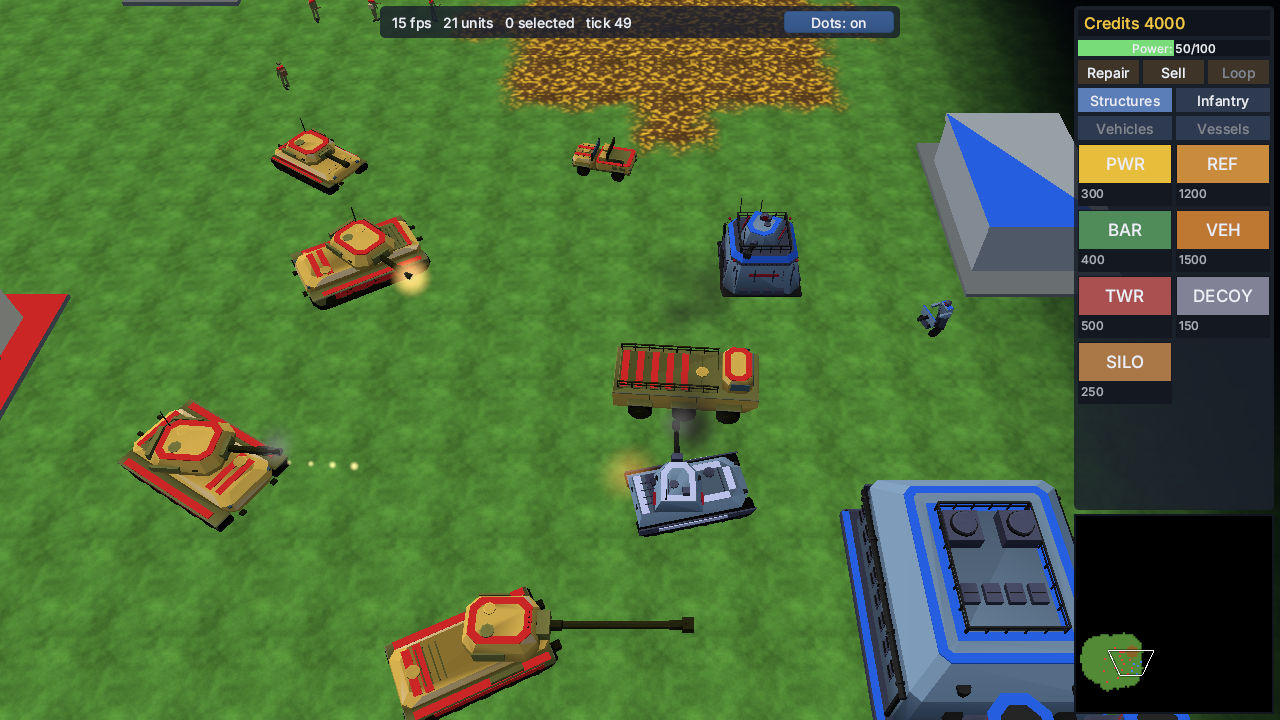
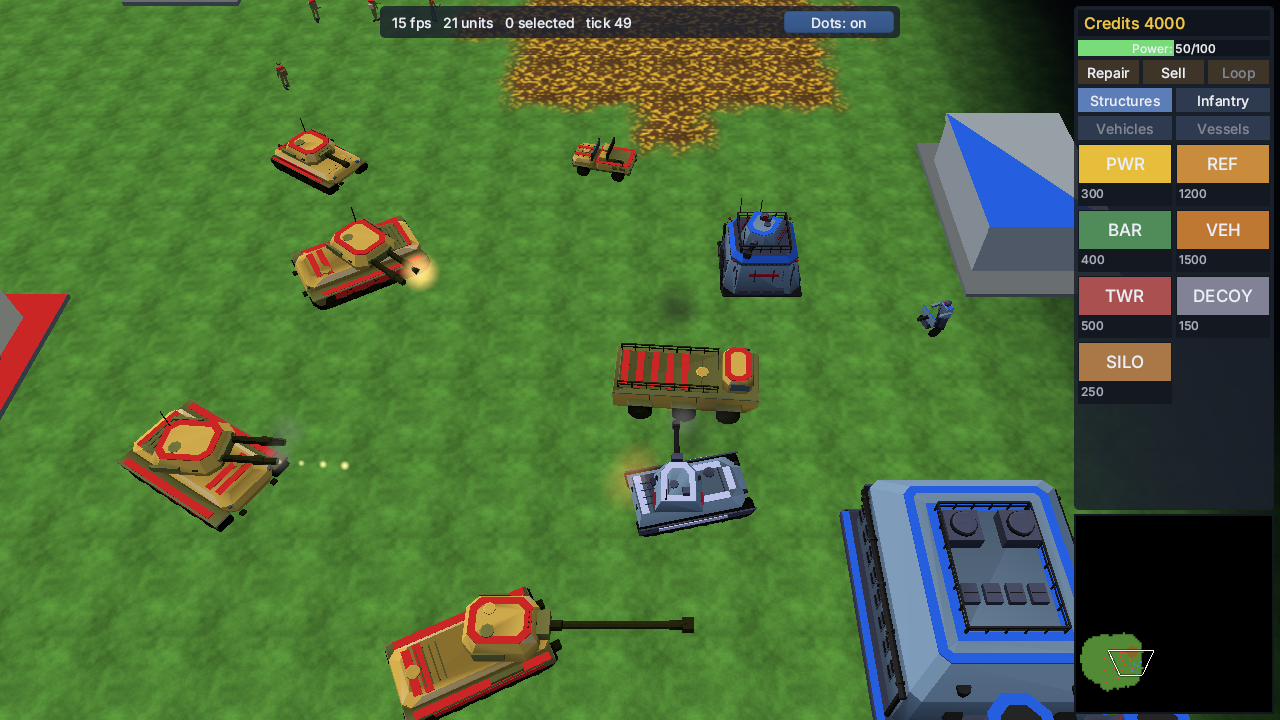
WP11.6b: progress notes, in-game shots after the twin cannon

diff --git a/docs/progress.md b/docs/progress.md
@@ -3491,6 +3491,35 @@ measurement (peak, length, silence, the mix below), not by ear. **Tijmen: please
 * **Tuning round (14-11-2026, orchestrator review: "tidy low-poly, not G").** Team colour is bands and trim (roof-edge bands with `kit::frame` and a flush fill, deck and fender stripes, stack flanges, tank shoulders, a pad marking): 20.7-23.9 % in every level, test cap 30 %. Shading: AO gain 2, grime 40 % up to 1.3 m, a 16 % top-edge highlight on upward bevels and edge wear on narrow open bevels; `COLOR_0` is now RGB over a grey material factor (`shade::factor`) so a plain face is still the palette colour. Buildings 3194/2584/3478 triangles in LOD0 (vents, pipes, railings, roof units, windows, door frames, bolted panels, ladders, walkways), vehicles 1264-1474 (capped wheels with hubs, track shoes, hatches, smoke dischargers, tools). New `tools/sf_model_gen/tests/shade.rs`, `buildings_use_their_detail_budget`; pins re-pinned; `contact_sheet_before_after.png` added, the contact sheet and M1 shots re-rendered (the Veyran tower and a tank now stand in view).
 * **Refinement round 2 (14-11-2026, Tijmen: "11.6 is goed, ga door, wel nog verfijnen").** Team colour as narrow stripes (at most 350 mm, `every_team_band_is_narrow`): two concentric roof bands on the buildings (`team_rings`/`insets`), platform-edge stripes, crane-arm stripes, a ring on the tank tops, four narrow drum bands, two cross bands on the Veyran tank deck; 20.7-26.2 % in every level. Veyran `paint`/`paint2` about 25 % lighter and cooler (`#7894b2` / `#4a4e68`). No edge wear on lathed triangles (`Tri::lathed`, `a_lathed_dome_gets_no_edge_wear`): the dome streaks are gone. Pins re-pinned; contact sheet, M1 shots re-rendered, `contact_sheet_round2.png` added.
 
+### WP11.6b notes: all units in style G (14-11-2026)
+
+* **Built.** Fourteen models in `assets/set_v5`, from `tools/sf_model_gen` (new files `units.rs`, `units_artillery.rs`, `units_wheeled.rs`, `units_transport.rs`, `units_vessels.rs`): heavy tank and siege artillery and repair truck of both factions, the Veyran harvester, transport truck, gunboat and heavy gun team, the Meridian light transport and amphibious transport, the neutral supply truck and ferry. A role of both factions is one builder with a `Style` (`Round` / `Angular`). Every vehicle and vessel role now has a generated model; the shared kit gained only `Palette::materials("neutral")` (third slot `paint3`, a `neutral` entry in `model_palette.ron`) and a few `pub(crate)` on helpers of `models.rs`.
+* **Heavy tank = twin cannon.** The weapon is `twin_cannon` (burst 2) and `effects_screenshot` follows the n-th shot to the n-th muzzle anchor, so the heavy tank has two barrels 912 mm apart and `muzzle_l`/`muzzle_r` under one `barrel` (like the set v4 file). The first build had one muzzle: `a_flash_starts_at_the_barrel_tip_and_a_twin_cannon_alternates_its_muzzles` caught it.
+* **Wiring (model paths only, no stat).** `unit_defs.ron`: every vehicle and vessel role, the supply truck, the ferry and the heavy gun team point at `set_v5`; pack `set_v5` in `models.ron` lists all 20 files. **Infantry is set v3 again** (Tijmen's figures, 1,000-1,200 triangles in LOD0, against 100-160 of set v4): rifleman, rocket_trooper, engineer, scout (per faction), sniper, medic, combat_engineer, civilian, technician; demolition_team was already there and stays (a two-figure file that passes the checker's structure rules; not regenerated). Known and kept: the v3 sniper has 19.0 % team colour in LOD0 where the checker asks 20 % (`sf_asset_check assets/set_v3`: FAIL `team-share`); the set v3 test only pins that it loads and fits the budget. Tests that named set v4 files for these roles follow (`sf_data` units, `roster.rs`, `faction_models_screenshot`).
+* **Vehicles keep no fx anchors** (decision recorded in `docs/art-style.md` section 7): a hurt vehicle smokes by the engine's rule.
+* **New rules in `docs/art-style.md` section 9:** vessels have a keel under the waterline (`Y = 0` inside the hull, the checker's rule), neutral models have no `team` material (`paint3`), the vehicle detail budget is 1,200-1,500 triangles in LOD0 and a figure 400-1,500, the far levels keep the height/length that sets the silhouette.
+* **Measured** (`sf_model_gen --table` and `sf_asset_check assets/set_v5 --deny-warnings`: 20 files, 20 pass, no warning). Triangles LOD0/1/2 and team share of the top-down view LOD0/1/2:
+  | Model | Triangles LOD0 / 1 / 2 | Team % LOD0 / 1 / 2 | Size x, z (m) |
+  |---|---|---|---|
+  | `meridian_amphibious_transport.glb` | 1496 / 390 / 94 | 22.3 / 22.9 / 22.5 | 6.32 x 3.26 |
+  | `meridian_heavy_tank.glb` | 1424 / 476 / 132 | 25.9 / 26.5 / 26.0 | 6.50 x 3.80 |
+  | `meridian_light_transport.glb` | 1282 / 340 / 84 | 26.2 / 27.6 / 28.3 | 3.40 x 2.11 |
+  | `meridian_repair_truck.glb` | 1408 / 414 / 116 | 24.7 / 25.5 / 24.5 | 4.80 x 2.48 |
+  | `meridian_siege_artillery.glb` | 1416 / 456 / 110 | 27.9 / 28.1 / 25.4 | 8.45 x 3.08 |
+  | `neutral_ferry.glb` | 1250 / 206 / 110 | none (neutral) | 21.12 x 8.90 |
+  | `neutral_supply_truck.glb` | 1482 / 496 / 126 | none (neutral) | 5.64 x 2.48 |
+  | `veyran_gunboat.glb` | 1480 / 492 / 148 | 21.7 / 22.6 / 20.7 | 18.00 x 4.90 |
+  | `veyran_harvester.glb` | 1258 / 444 / 148 | 24.0 / 24.6 / 21.3 | 6.35 x 3.44 |
+  | `veyran_heavy_gun_team.glb` | 564 / 216 / 54 | 24.0 / 28.5 / 24.9 | 1.60 x 1.09 |
+  | `veyran_heavy_tank.glb` | 1438 / 454 / 150 | 25.0 / 25.5 / 24.7 | 6.65 x 3.80 |
+  | `veyran_repair_truck.glb` | 1388 / 394 / 132 | 25.4 / 25.5 / 24.3 | 4.80 x 2.48 |
+  | `veyran_siege_artillery.glb` | 1406 / 422 / 140 | 26.9 / 26.8 / 23.8 | 8.45 x 3.08 |
+  | `veyran_transport_truck.glb` | 1396 / 370 / 102 | 27.9 / 29.5 / 27.5 | 5.64 x 2.48 |
+  Sizes stay inside the set v4 file they replace (`FOOTPRINTS` in `tools/sf_model_gen/tests/models.rs`); `veyran_heavy_gun_team` has no v4 file (bound 1.70 x 1.20 m, measured 1.60 x 1.09).
+* **Pictures** in `docs/screenshots/wp11.6b/`: `contact_sheet_1..4.png` (every model of set v5, blue and red player, 45 and 80 degrees down, labelled) and two shots of the real game, `m1_units_zoom_0.12_tick23.png` and `m1_units_zoom_0.25_tick49.png` (`sf_game --match <M1 with extra starting objects> --focus 108,296 --shots`, Mesa lavapipe; the extra objects are in a scratch copy, not committed). They show the Meridian heavy tank, light tank, siege artillery, repair truck, light transport and the v3 infantry (red player) next to a Veyran defence tower, light tank, heavy tank and power plant (blue).
+* **Pins.** No sim checksum moved: all 46 CI scenarios `--expect` unchanged (local release run, rc 0), `scripts/check-sim-determinism.sh` ok, `golden.rs` untouched. The six set v5 files of WP11.6a are byte-identical (their pins in `tools/sf_model_gen/tests/generator.rs` did not move; the 14 new files have their own table `PINNED_UNITS`).
+* **Gaps.** The in-game pictures show only the Meridian units well (the Veyran gunboat, ferry and amphibious transport need water, which the M1 corner does not have; they are in the contact sheet only). The ferry has no `_stalled` variant (the set v4 file `neutral_ferry_stalled.glb` is not a role). Nothing in the engine reads the supply truck's or ferry's missing team material beyond what the neutral set v4 models already did.
+
 ### WP9.3a-1 notes: escalation after a failed strike and the harvester threat (14-11-2026)
 
 * **What changed.** `crates/sf_ai`: the bounce ledger (`bounces`, `bounce_value`, `bounce_tick`; `army::need_value`, `record_bounce`, `reset_bounces`; `attack_due` reads it and the `max_wait` fallback counts from the failed strike) and the harvester threat (`army::harvester_hit`, `AiState::harv_seen`; `watch` raises a threat on a hit on an own harvester when no structure was hit in the same think and no defence is running). Profile numbers `escalate_permille`, `attack_value_max` (checked: at least `attack_value` when set) and `harvester_threat`, all shipped off; digest tags `0x95` (escalation) and `0x96` (harvester threat), only when on. Nothing in `crates/sf_sim`. New: scenarios `ai_bounce` and `ai_harvest_raid` (frozen copies, pinned, in the CI list), the fixture `normal_9_2b1.ron`, `tools/sf_headless/tests/ai_escalate.rs`, 17 tests in `ai_groups.rs`, an `ai_perf` row, and the `#[ignore]`d measuring harness `ai_rows.rs`.
